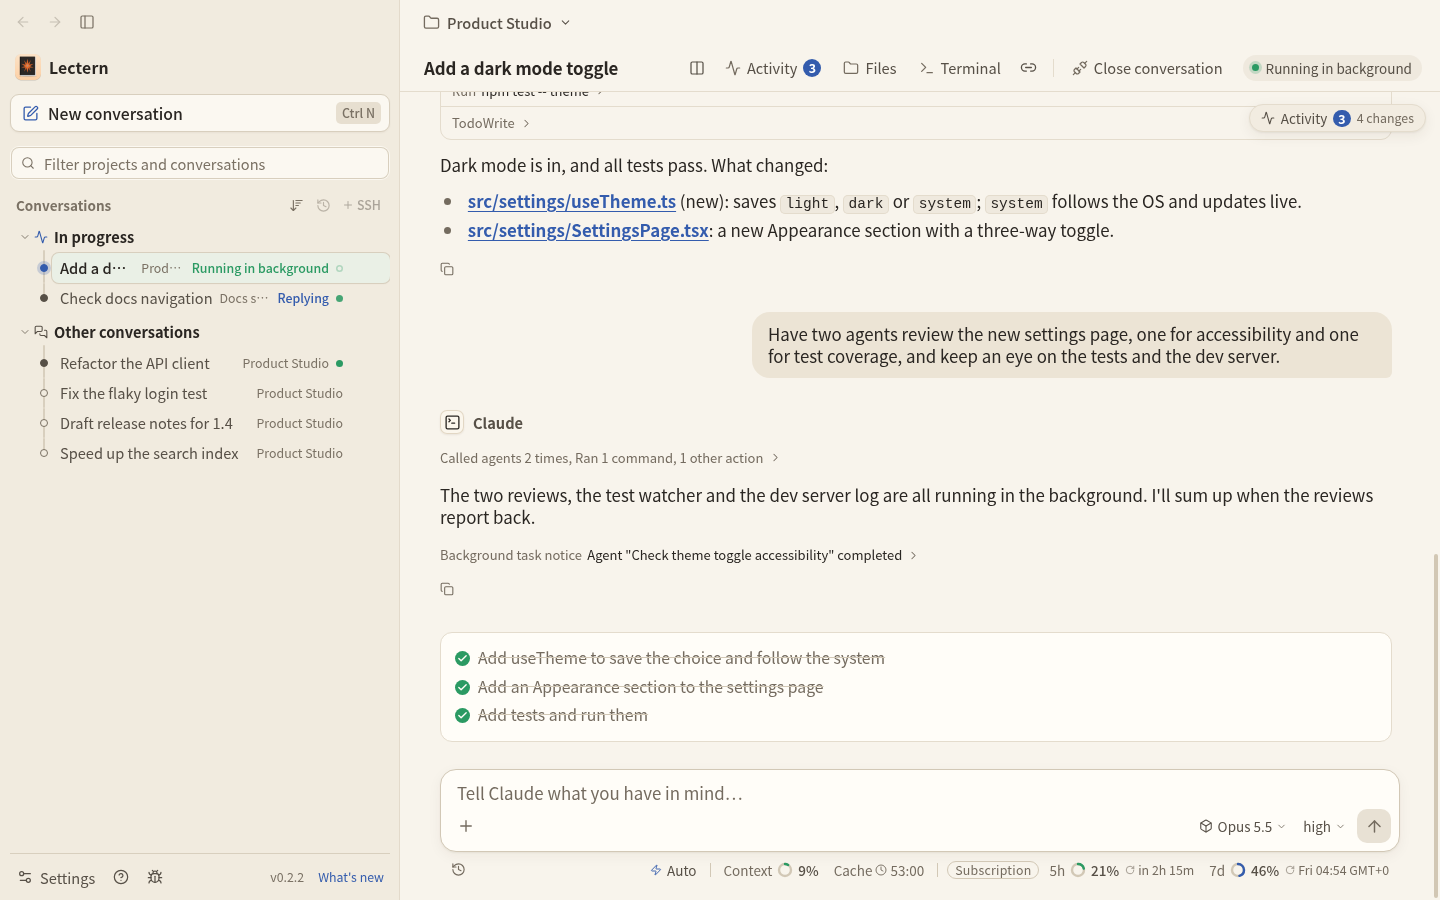
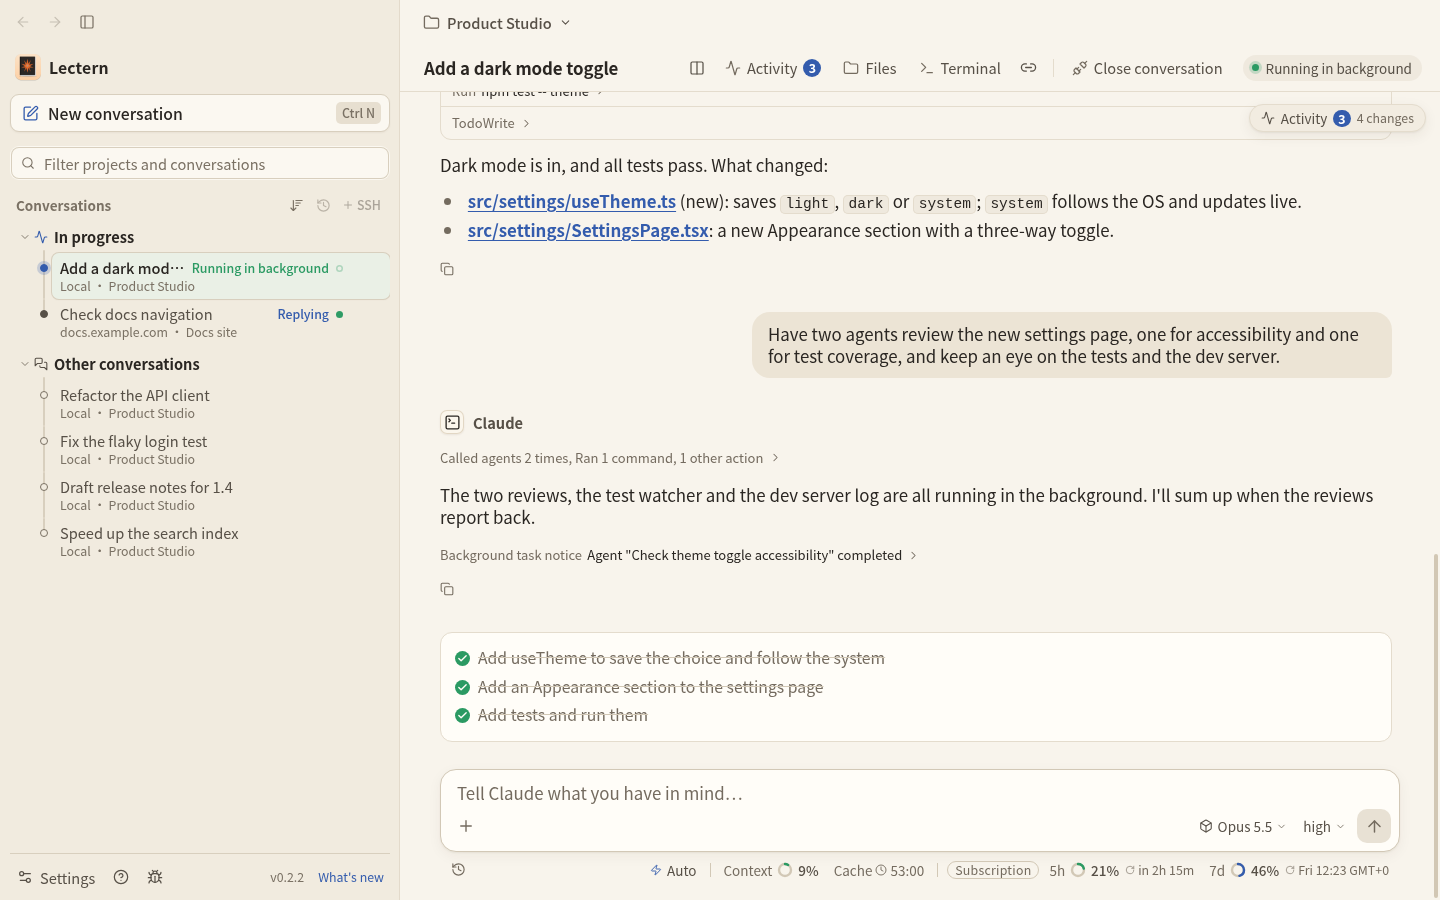
Sidebar: two-line rows in the lists across projects
In "Most recently updated" and "In progress first" each conversation now
takes two lines: the title line as in "By project" (title, segment/branch
mark, state text and dot), then the machine and folder ("Local · lectern",
"gpu.example.com · train") in smaller, quieter caption text, cut with an
ellipsis when too long; the hover tip and the spoken label give it in full.
The machine is always named, as its sidebar heading names it, not only where
folder names repeat across machines. "By project" keeps one-line rows.

The row is calc(46 * var(--ui-px)) high (5 + 20 for the title line + 16 for
the second line + 5), so both lines follow the interface font size. The
knot (and its loading ring), the end of the tree line and the rename button
sit on the title line; selection, hover, the split pane's blue and dragging
cover both lines.

Tests: sidebar-layout-e2e checks the two lines (stacked, one line each,
smaller second line, knot, rename button and line end on the title line,
46px at 18px, ellipsis, scaled at 14px), the machine · folder text, hover
tip and spoken label, and one-line rows in "By project"; sidebar-split-e2e
checks the blue covers the second line and it reads on it; sidebar-folds-e2e
expects the new text. Release note for the sort views reworded.

Changed region(s): [[0.0312, 0.28, 0.25, 0.6222], [0.1875, 0.4044, 0.2188, 0.5289]]

diff --git a/src/renderer/SidebarTree.tsx b/src/renderer/SidebarTree.tsx
@@ -107,7 +107,7 @@ function repeatedTitles(sessions: readonly SessionInfo[]) {
   return duplicates;
 }
 
-function SessionRow({ workspace, session, state, duplicate, selected, splitOpen, origin, place, onSelect, onRename, menuActions }: {
+function SessionRow({ workspace, session, state, duplicate, selected, splitOpen, origin, onSelect, onRename, menuActions }: {
   workspace: Workspace;
   session: SessionInfo;
   state: SidebarSessionState;
@@ -115,9 +115,9 @@ function SessionRow({ workspace, session, state, duplicate, selected, splitOpen,
   selected: boolean;
   /** The split pane without the focus shows it: pale blue, apart from the focused pane's. */
   splitOpen?: boolean;
-  /** Folder and machine, read out and in the tooltip; `place` is the quieter part shown after the title. */
+  /** Machine and folder in full, read out and in the tooltip. With it the row takes two lines
+   * (the lists across projects): the title line, then the quieter `origin` below it. */
   origin?: string;
-  place?: string;
   onSelect(workspace: Workspace, id: string): void;
   onRename(target: { workspaceId: string; session: SessionInfo }): void;
   menuActions?: SidebarMenuActions;
@@ -131,6 +131,12 @@ function SessionRow({ workspace, session, state, duplicate, selected, splitOpen,
   const waitingFirstRecord = session.paneId && !session.path && t('sidebar.waitingFirstRecord');
   const inOtherPane = !selected && !!splitOpen;
   const splitNote = inOtherPane && t('sidebar.splitOpen');
+  const line = <>
+    <span className="session-title">{title}</span>
+    {identity && <small>{identity}</small>}
+    <span className="session-state-label">{state.label}</span>
+    {state.dot && <span className={`session-status-dot state-${state.dot}`} aria-hidden="true" />}
+  </>;
   return (
     <div className="session-row-wrap">
       <button
@@ -165,11 +171,10 @@ function SessionRow({ workspace, session, state, duplicate, selected, splitOpen,
         data-loading={state.loading || undefined}
         data-split-open={inOtherPane || undefined}
       >
-        <span className="session-title">{title}</span>
-        {identity && <small>{identity}</small>}
-        {place && <small className="session-origin">{place}</small>}
-        <span className="session-state-label">{state.label}</span>
-        {state.dot && <span className={`session-status-dot state-${state.dot}`} aria-hidden="true" />}
+        {origin ? <>
+          <span className="session-line">{line}</span>
+          <small className="session-origin">{origin}</small>
+        </> : line}
       </button>
       <button
         type="button"
@@ -342,17 +347,14 @@ export function SidebarTree({
   });
   const flat = prefs.sidebarSort !== 'projects';
   const priority = prefs.sidebarSort === 'priority';
-  // A row names its folder; the machine too where folders on two machines share the name.
-  const nameMachines = new Map<string, Set<string>>();
-  for (const machine of machines) for (const { name } of machine.folders) nameMachines.set(name, (nameMachines.get(name) ?? new Set()).add(machine.key));
+  // A row's second line names its machine (as the machine headings do) and folder.
   const globalRows = flat ? visible.flatMap(({ machine, folders, machineMatch }) => folders.flatMap(workspace => {
     const folderMatches = machineMatch || matches(workspace.name, workspace.cwd);
     const sessions = listed(workspace), duplicates = repeatedTitles(sessions);
     return sessions.filter(session => folderMatches || matches(session.title)).map(session => ({
       workspace, session,
       key: archiveKey(workspace.id, session.id),
-      origin: `${workspace.name} · ${machine.name}`,
-      place: nameMachines.get(workspace.name)!.size > 1 ? `${workspace.name} · ${machine.name}` : workspace.name,
+      origin: `${machine.name} · ${workspace.name}`,
       state: displayState(workspace, session),
       duplicate: duplicates.has(session.title),
       selected: isSelected(workspace, session),

diff --git a/src/renderer/machine-tree.css b/src/renderer/machine-tree.css
@@ -142,7 +142,7 @@
 .sidebar-tree .session-row[data-status="waiting"] { --row-accent: var(--signal); color: var(--rail-text); }
 .sidebar-tree .session-row[data-status="error"] { --row-accent: var(--danger-dot); }
 .sidebar-tree .session-title { flex: 1; min-width: 0; overflow: hidden; white-space: nowrap; text-overflow: ellipsis; }
-.sidebar-tree .session-row > small { flex: none; color: var(--rail-muted); font-size: var(--text-caption); font-weight: 400; }
+.sidebar-tree .session-row > small, .sidebar-tree .session-line > small { flex: none; color: var(--rail-muted); font-size: var(--text-caption); font-weight: 400; }
 .sidebar-tree .session-state-label { flex: 0 0 auto; color: var(--rail-muted); font-size: var(--text-caption); font-weight: 500; }
 /* Quiet states speak through the knot and dot alone. */
 .sidebar-tree .session-row[data-status="history"] .session-state-label,
@@ -168,7 +168,7 @@
 
 /* The lists across projects (最近更新, 进行中优先) are the same tree: each group is a
    folder-like row (.workspace-row) over the same line, knots and session rows, lined up
-   with the folders of the project tree. Only the folder name after the title is new. */
+   with the folders of the project tree. Their session rows take two lines (see below). */
 .sidebar-global { margin-inline-start: 4px; }
 .sidebar-tree .sort-group-heading { display: flex; flex: 1; min-width: 0; height: 100%; margin: 0; font: inherit; }
 .sidebar-tree .sort-group-toggle {
@@ -184,16 +184,29 @@
 /* No folder actions on a group: its dot stays in the dot column of the rows below
    (the session row's end padding). */
 .sidebar-tree .sort-group-toggle > .workspace-select { padding-inline-end: 47px; }
-/* The title keeps its width first; the folder name gives way down to a few letters. */
-.sidebar-global .session-row > .session-title { flex: 1 1 auto; }
+/* Two lines: the title line as in the tree (title, state, dot), then the machine and folder
+   in quieter caption text. The knot, the end of the line and the rename button sit on the
+   title line, whose middle is 15 units down (5 above it, 20 for it, 16 for the second). */
+.sidebar-global .session-row {
+  flex-direction: column;
+  align-items: stretch;
+  justify-content: center;
+  gap: 0;
+  height: calc(46 * var(--ui-px));
+  min-height: calc(46 * var(--ui-px));
+}
+.sidebar-tree .session-line { display: flex; align-items: center; gap: 7px; min-width: 0; height: calc(20 * var(--ui-px)); line-height: calc(20 * var(--ui-px)); }
 .sidebar-tree .session-row > .session-origin {
-  flex: 0 1000 auto;
-  min-width: 3.5em;
-  max-width: 45%;
+  display: block;
   overflow: hidden;
+  font-size: var(--text-caption);
+  line-height: calc(16 * var(--ui-px));
   white-space: nowrap;
   text-overflow: ellipsis;
 }
+.sidebar-global .session-row::before { top: calc(15 * var(--ui-px) - 4px); }
+.sidebar-global .session-row[data-loading]::before { top: calc(15 * var(--ui-px) - 5.5px); }
+.sidebar-global .session-row-wrap:not(:has(~ .session-row-wrap))::before { bottom: calc(100% - 15 * var(--ui-px)); }
 
 /* Activity dots: one trailing column for folders and sessions. */
 .sidebar-tree .session-status-dot { flex-shrink: 0; width: 7px; min-width: 7px; height: 7px; border-radius: 50%; }

diff --git a/src/shared/release-notes.ts b/src/shared/release-notes.ts
@@ -37,8 +37,8 @@ export const releaseNotes: ReleaseNote[] = [
   {
     version: '0.2.3',
     features: [
-      ['侧栏「最近更新」「进行中优先」两种排序与「按项目」观感一致：同样的单行对话、树线和状态点，分组标题像项目文件夹一样可折叠，所属项目以浅色小字跟在标题后。',
-        'The "Most recently updated" and "In progress first" sidebar lists look like "By project": one-line rows on the tree line, group headings that fold like folders, and each project in quiet text.'],
+      ['侧栏「最近更新」「进行中优先」与「按项目」观感一致，分组标题像文件夹一样可折叠；每个对话分两行，上行是对话名，下行以浅色小字写机器和文件夹。',
+        'The "Most recently updated" and "In progress first" sidebar lists look like "By project", with groups that fold like folders; each chat takes two lines: its name, then its machine and folder.'],
       ['侧栏里展开、折叠的项目文件夹、机器、分组和「展开更多」在切换排序方式和重启后都保持原样，在其他排序里打开对话也不再展开它的文件夹。',
         'Folders, machines and groups opened or folded in the sidebar, and their "Show more", stay so across sort modes and restarts; opening a chat from another sort no longer opens its folder.'],
       ['可以从聊天框使用 Claude Code 的 /goal，回复进行中也能清除目标；输入框上方显示目标的进行、检查、达成等状态，回复中记录每次检查。',
